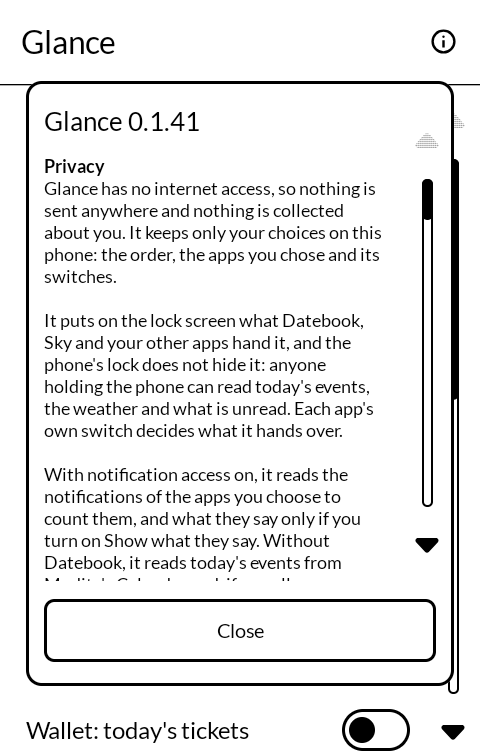
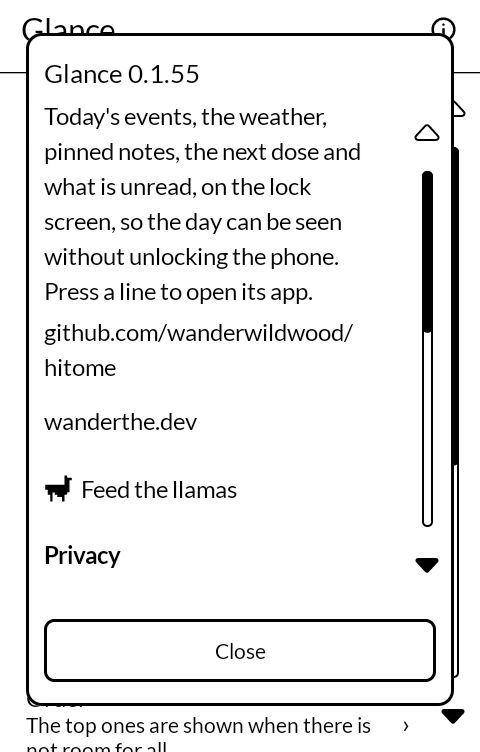
README: Dark mode reaches the lock-screen panel; About shot retaken

diff --git a/README.md b/README.md
@@ -6,6 +6,9 @@ the app it belongs to, and each has its own switch.
 
 *Hitome* is 一目 — one look, a glance.
 
+Dark mode, a switch in Settings, reaches the lock-screen panel too; the panel also follows the
+phone's dark setting and Home's dark switch.
+
 | | |
 |---|---|
 | ![Glance: the switches for each part](screenshots/1-app.png) | ![The order, and the other apps' notifications](screenshots/2-more.png) |
